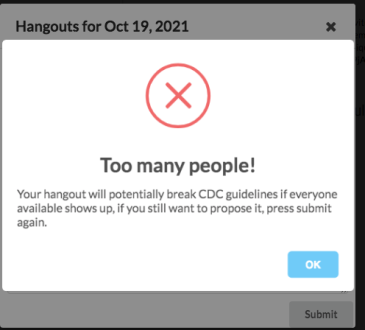
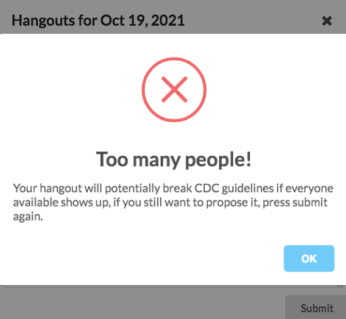
updating project titles, rounding images

Changed region(s): [[0.0, 0.0, 1.0, 1.0], [0.3757, 0.1693, 0.6069, 0.395], [0.2601, 0.4514, 0.7225, 0.5361]]

diff --git a/projects/isec.md b/projects/isec.md
@@ -2,7 +2,7 @@
 layout: project
 type: project
 image: img/isec/isec-logo.jpg
-title: ISEC Society Website
+title: Full Stack Developer (ISEC)
 permalink: projects/ISEC
 # All dates must be YYYY-MM-DD format!
 prettydt: Dec. 2020 - Aug. 2022
@@ -20,12 +20,12 @@ summary: The ISEC Society is a non-profit journal whose website I worked on for 
 <img class="img-fluid" width="100%" src="{{ site.baseurl }}/img/isec/isec-home.png">
 
 
-The International Structural Engineering and Construction \[ISEC] Society is a non-profit journal/publication that I worked for from December 2020 to August 2022. They publish research papers of many different topics surrounding construction and engineering and hold semi-annual conferences where authors who have had their papers published can present their works. Their website allows authors to submit their abstracts for editor and peer review and potentially accepted, in which case authors can submit the full manuscript for the same process. 
+The International Structural Engineering and Construction (ISEC) Society is a non-profit journal/publication that I worked for from December 2020 to August 2022. They publish research papers of many different topics surrounding construction and engineering and hold semi-annual conferences where authors who have had their papers published can present their works. Their website allows authors to submit their abstracts for editor and peer review and potentially accepted, in which case authors can submit the full manuscript for the same process. 
 
 I worked on maintaining and updating this website when needed, as well as managing the database which included creating a new database and pages for every new conference. I would do DevOps work such as renewing any certificates needed and generating xmls for google search results. I would respond to user questions and issues through email, sometimes leading to changes themselves. Most changes were brought up by my boss who was not a programmer so I would have to specify requirements with him and be able to communicate timelines and feasibility of tasks. Another site that I also maintained and worked on would host the author's published works, this site was called ISEC Press.
 
 <figure class="figure float-end">
-  <img width="750px" style="padding-left: 2rem" class="figure-img img-fluid img-responsive" src="../img/isec/isecpress.png">
+  <img width="750px" style="padding-left: 2rem" class="figure-img img-fluid img-responsive rounded" src="../img/isec/isecpress.png">
   <figcaption style="padding-left: 2rem" class="figure-caption">The last ISEC Press I worked on</figcaption>
 </figure>
 

diff --git a/projects/wahi.md b/projects/wahi.md
@@ -2,7 +2,7 @@
 layout: project
 type: project
 image: img/wahi/WahiLogo-crop.png
-title: WAHI
+title: WAHI (2021 HACC)
 permalink: projects/wahi
 # All dates must be YYYY-MM-DD format!
 prettydt: Nov. 2021
@@ -41,8 +41,8 @@ The Confirm Related Sightings page has a similar view, with rows of sightings in
 
 I learned a lot from the experience with this hackathon. After the very short Meteor Hackathon this one was very different in pace. We definitely slowed down at the start of this hackathon to catch our breath after the sprint that was the Meteor Hackathon. Once we did get this marathon (4 weeks!) started, we had to take time to learn about mobile app development, this was my first time doing anything with a mobile app, so I was thankful for my teammates who were more versed with it. On the web view side of things, the database tables for this app had more fields than I have worked with in any project. There were many pieces of data that HMAR wanted to be stored for each report, which also led to the form being quite long and complex. This made working with the data (such as when inserting or updating) very finnicky: particulary with test data which needed all the fields to be properly set.
 <figure class="figure">
-  <img style="width: 49%" class="figure-img img-fluid img-responsive" src="../img/wahi/LatestReports.png">
-  <img style="width: 49%" class="figure-img img-fluid img-responsive" src="../img/wahi/ConfirmRelated.png">
+  <img style="width: 49%" class="figure-img img-fluid img-responsive rounded" src="../img/wahi/LatestReports.png">
+  <img style="width: 49%" class="figure-img img-fluid img-responsive rounded" src="../img/wahi/ConfirmRelated.png">
   <figcaption class="figure-caption text-center">The pages I worked on (part of the web-app)</figcaption>
 </figure>
 

diff --git a/projects/proxamie.md b/projects/proxamie.md
@@ -2,7 +2,7 @@
 layout: project
 type: project
 image: img/proxamie/ProxamieLogo-crop.png
-title: Proxamie
+title: Proxamie (2021 Meteor Hackathon)
 permalink: projects/proxamie
 # All dates must be YYYY-MM-DD format!
 prettydt: Oct. 2021
@@ -16,7 +16,7 @@ labels:
 summary: A webapp to help friends plan hangouts; my team of 4's submission for the 2021 Meteor Hackathon.
 ---
 
-<img class="img-fluid" src="../img/proxamie/AddAvailabilitiesPage.png">
+<img class="img-fluid rounded" src="../img/proxamie/AddAvailabilitiesPage.png">
 
 In my (and all my team mates') first Hackathon, we developed an app to help groups plan/schedule hangouts. Users can create and log into accounts, dropping them into their personal profile page. From here they can indicate their availabilities using a [when2meet](https://www.when2meet.com/) style interface. 
 
@@ -32,7 +32,7 @@ For this project, I helped plan the database structure and created most of the c
 My other primary contribution was the **create hangout form** and hangouts table. Clicking on a date on the group page displays a form to create a new hangout. This form prompts you to choose a time (selected from a dropdown which tells you who will be available at each time) and enter a name and description for the hangout. This info is then put into the hangouts table in the group, for all in the group to see. 
 
 <figure class="figure float-start">
-  <img width= "95%" class="figure-img img-fluid" src="../img/proxamie/CreateHangoutWarning.png">
+  <img width= "95%" class="figure-img img-fluid rounded" src="../img/proxamie/CreateHangoutWarning.png">
   <figcaption class="figure-caption">The CDC guideline warning</figcaption>
 </figure>
 
